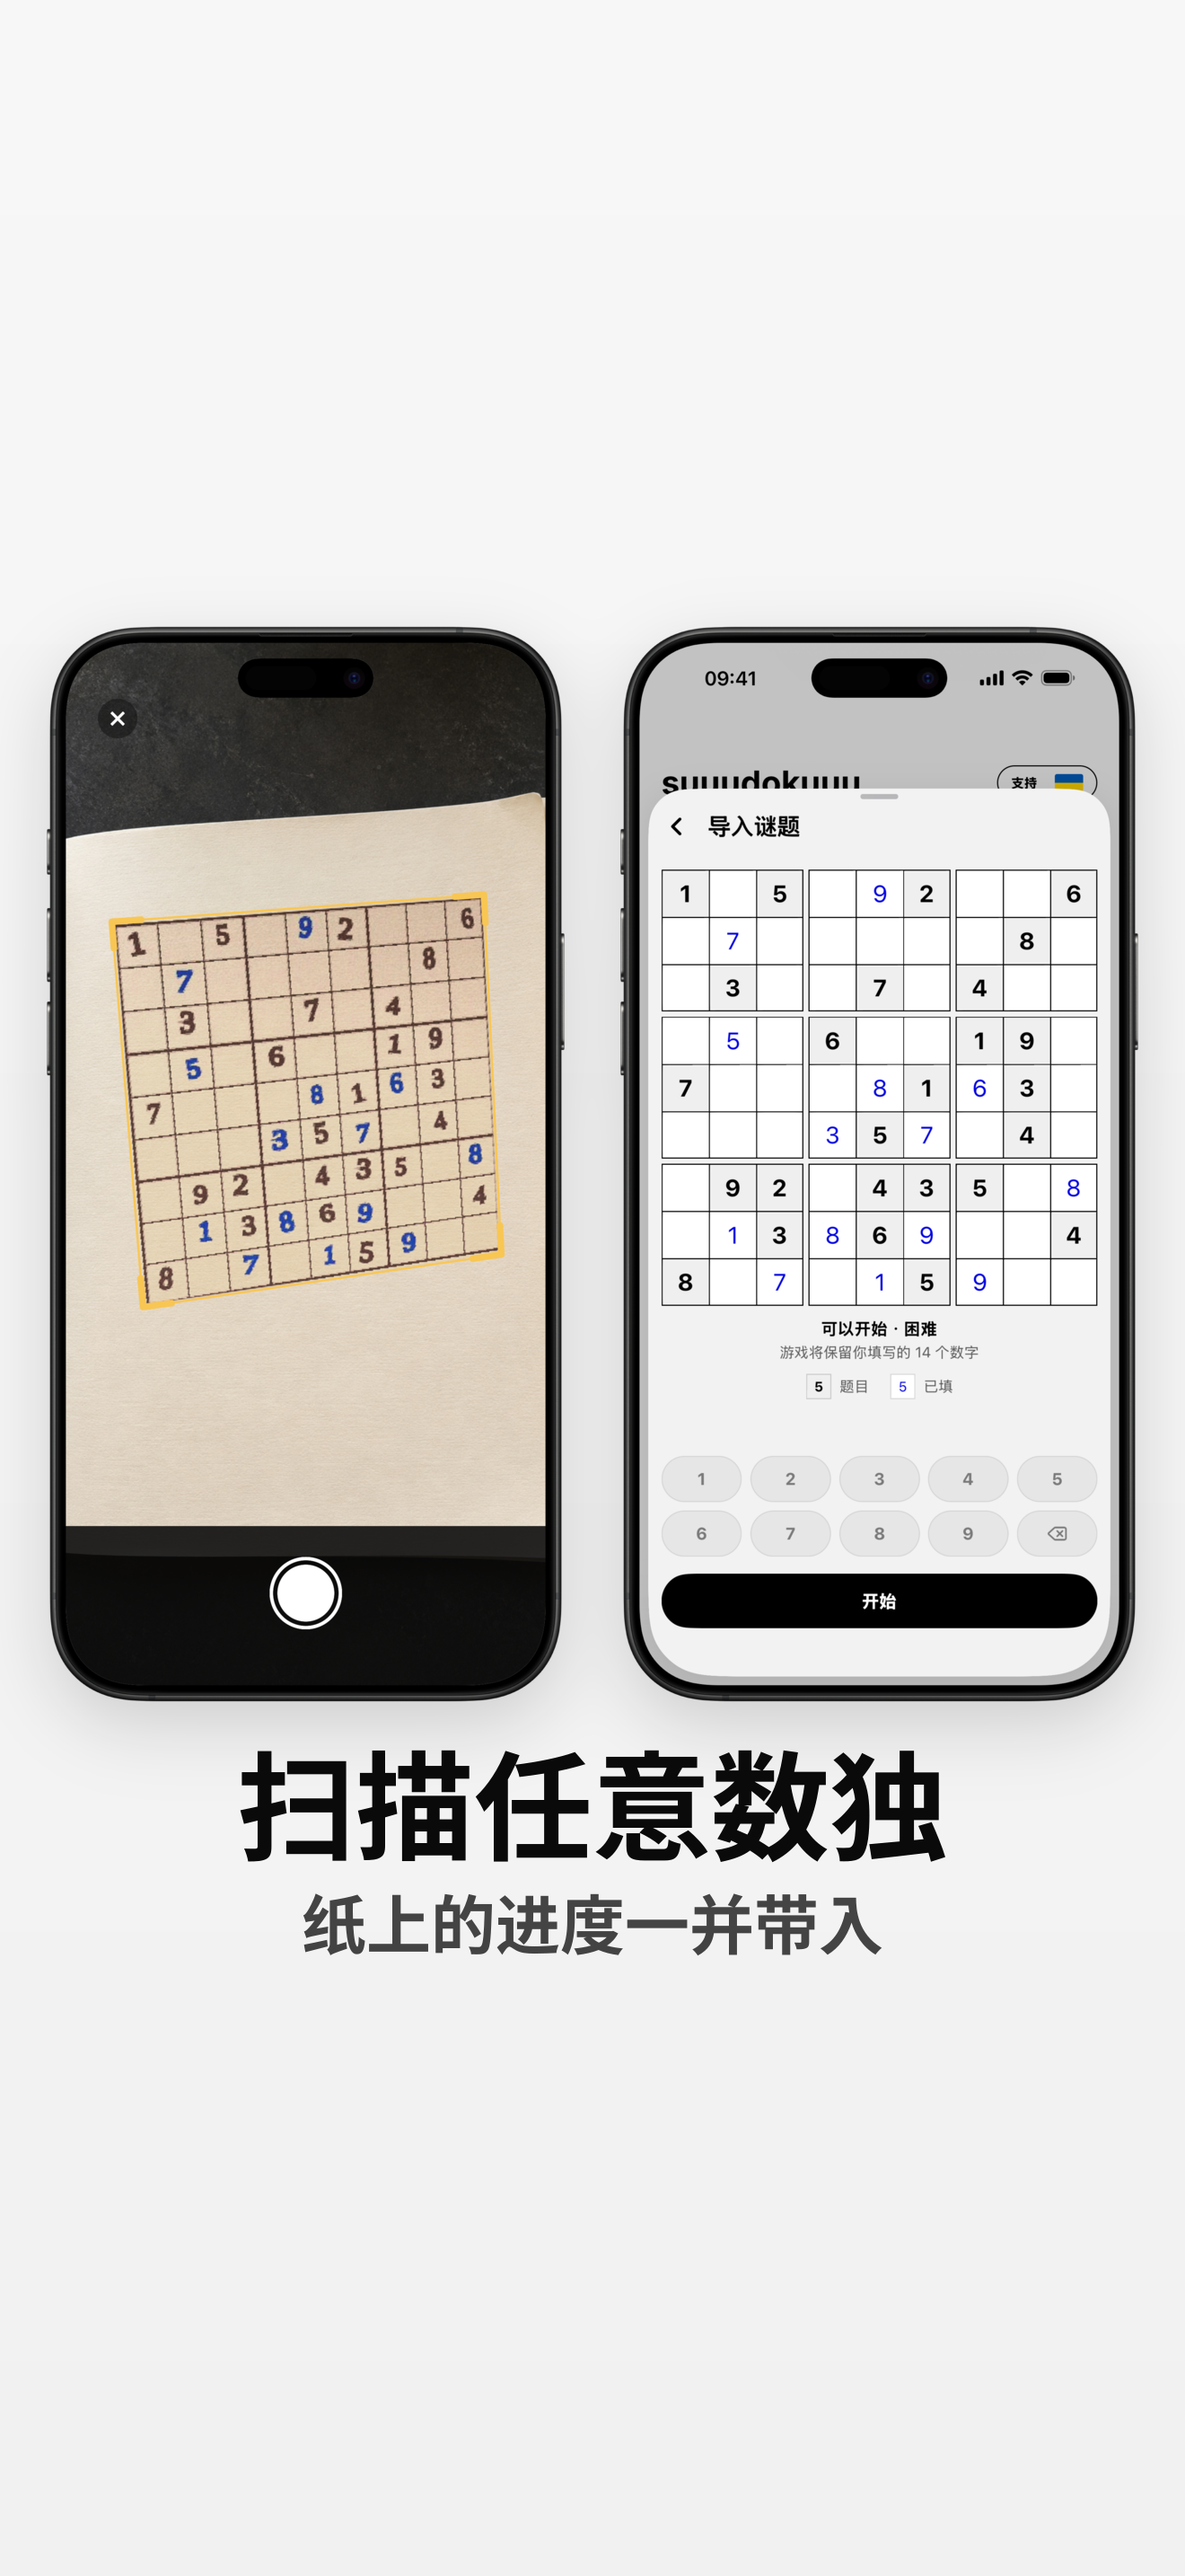
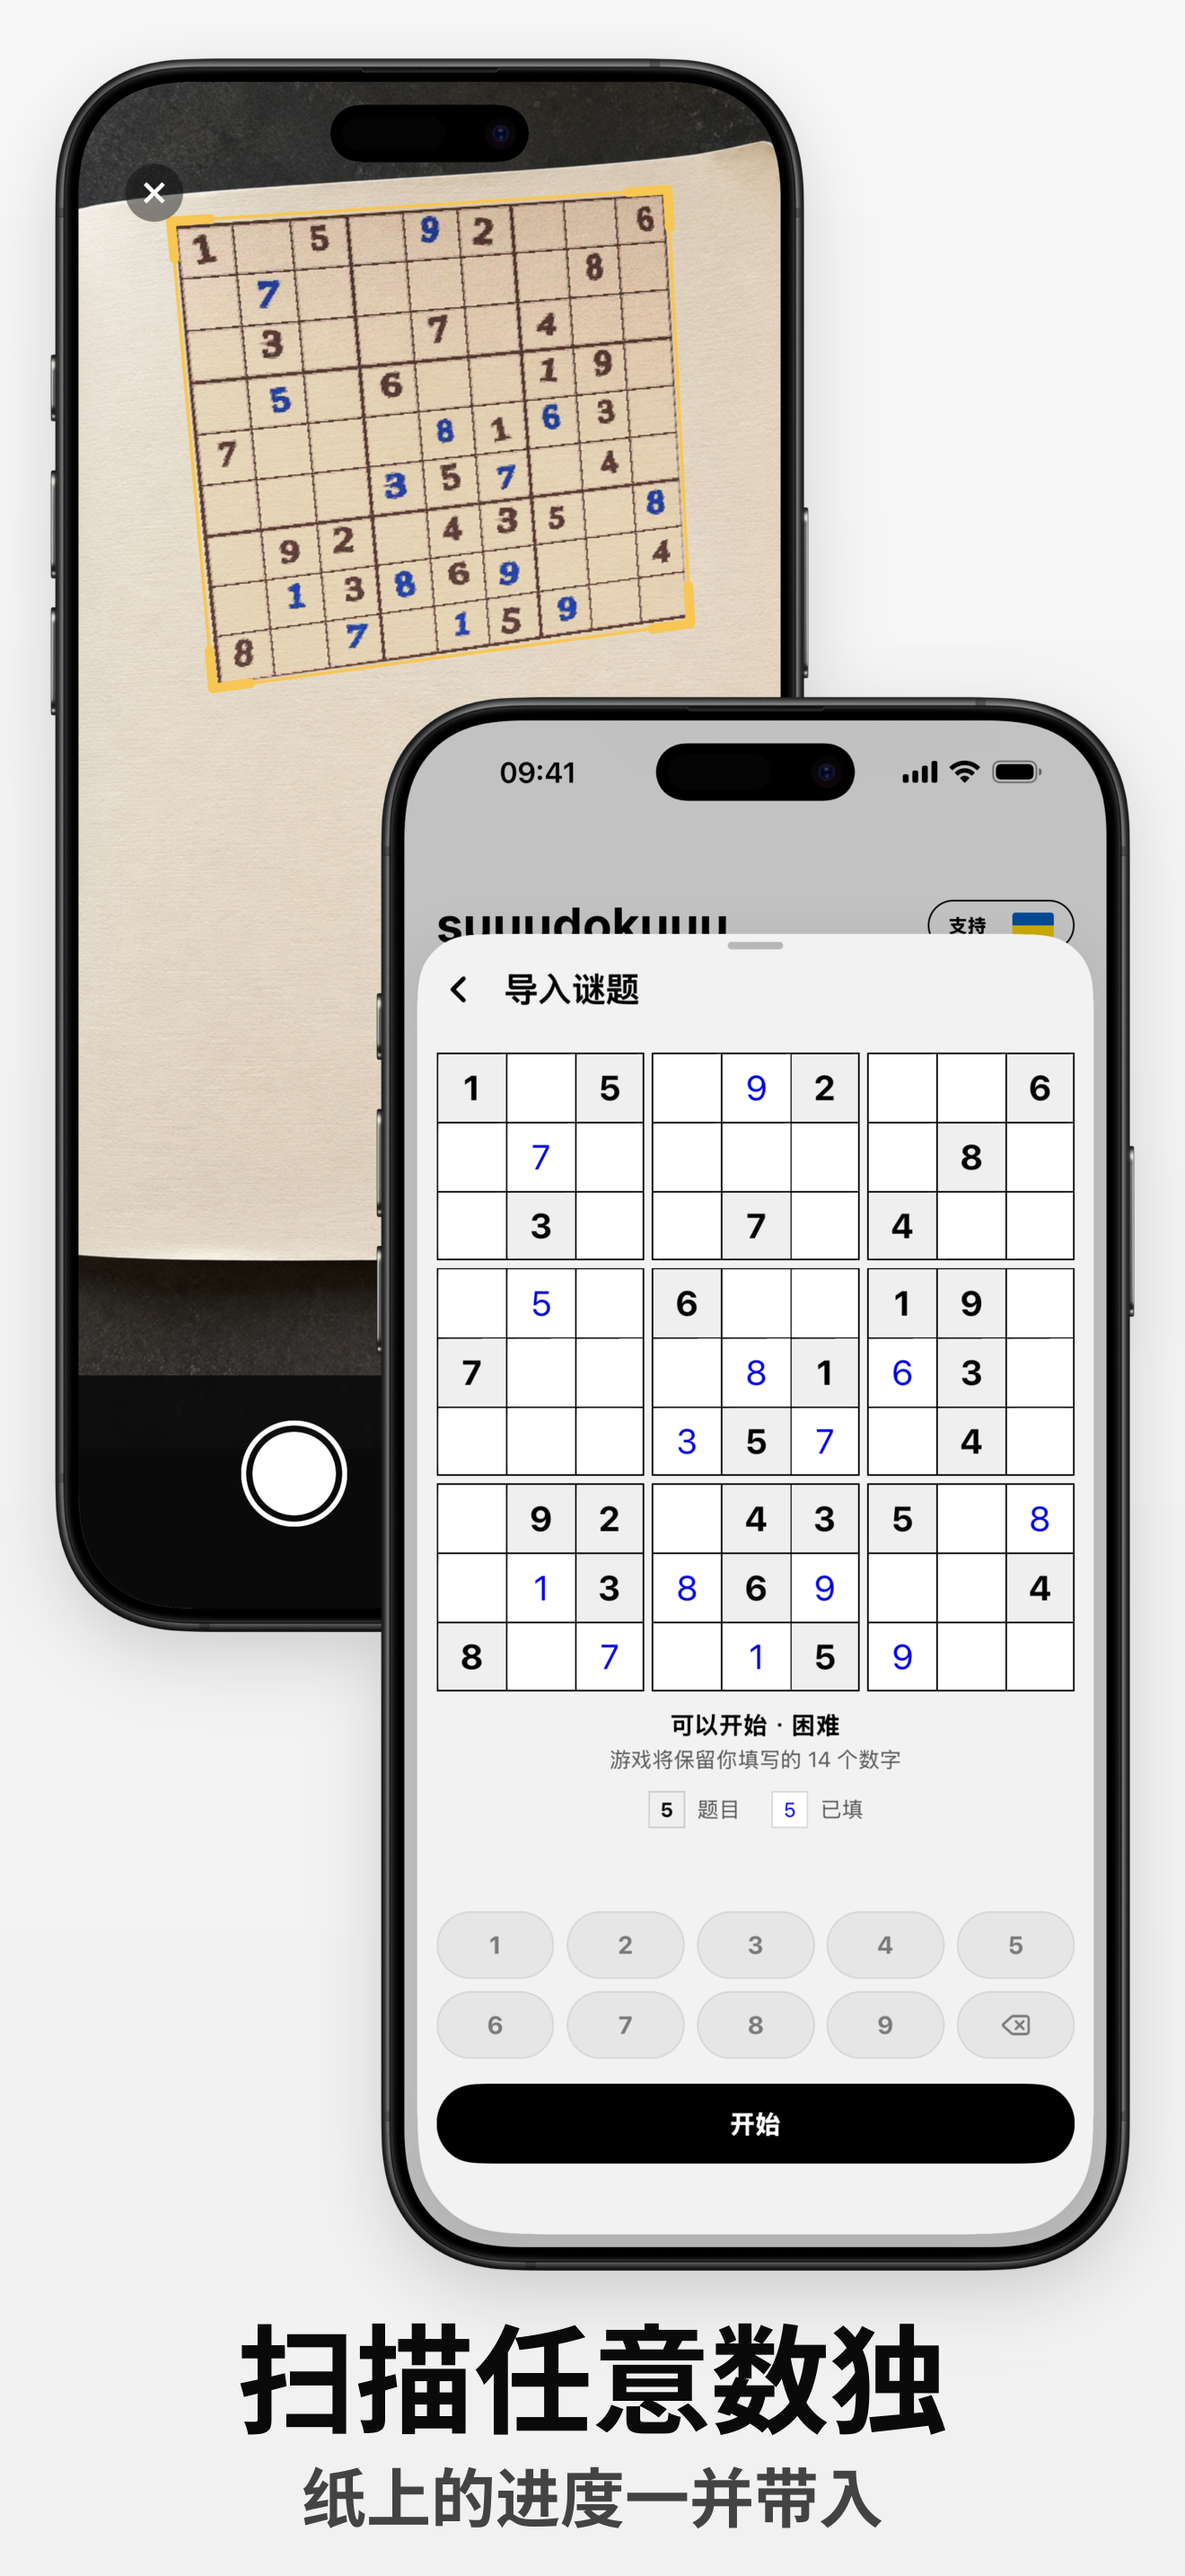
fix(app): enlarge the import screenshot composition

diff --git a/packages/app/fastlane/screenshots/design/README.md b/packages/app/fastlane/screenshots/design/README.md
@@ -52,7 +52,9 @@ one-off upload. Google Play uses one dark-first set with a light-mode closer.
 and draws the detection outline and shutter. The right screen is the
 localized app capture from the same fixture, including its handwritten
 entries. iOS uses the existing frame masks and Google Play uses two frameless
-screens.
+screens. The scanner sits higher so the review sheet can overlap it while
+leaving the paper grid and shutter visible. The wider iPhone Duo and Play
+canvases use a smaller vertical offset and less overlap.
 
 After recapturing the import scene, pass its ID as the third argument to
 replace only the import shot in each set.
